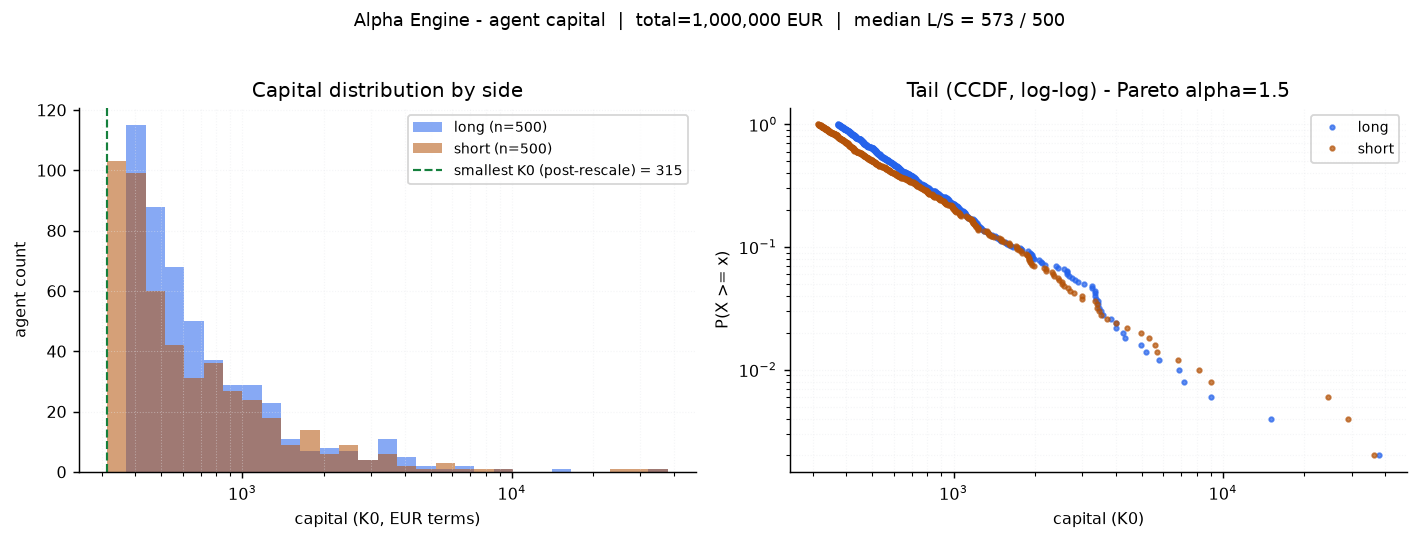
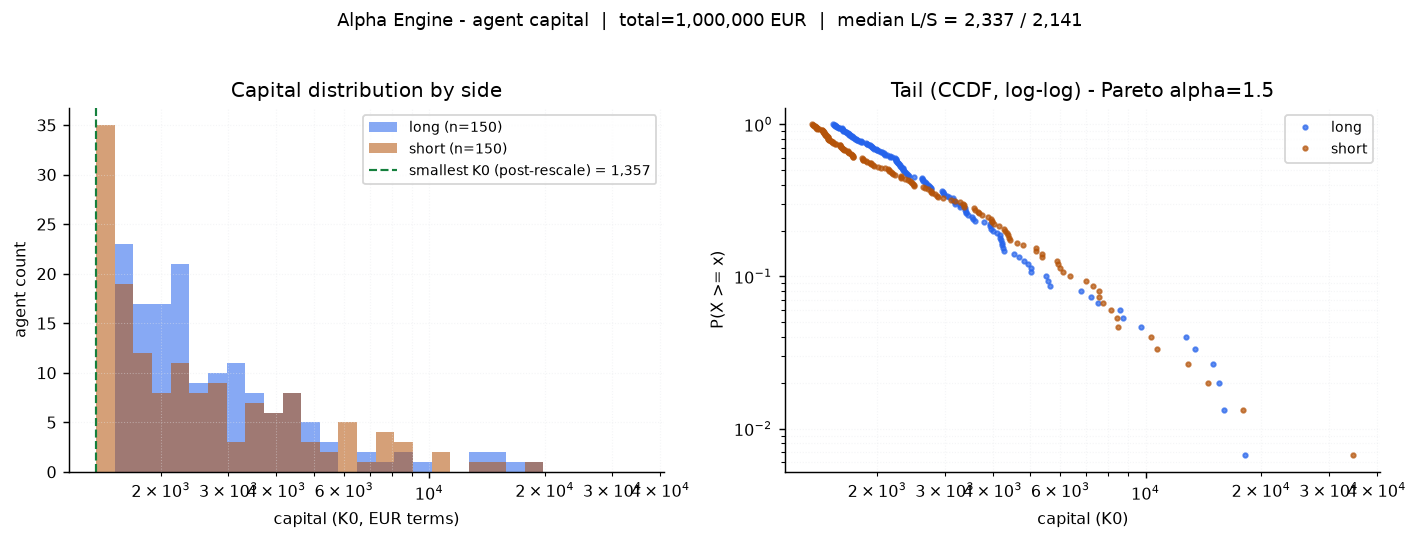
Benchmark with only CLOB; pressure clock also closes

diff --git a/scaling_law.py b/scaling_law.py
@@ -33,12 +33,24 @@ from analysis import Recorder
 from dc_analysis import measure, fit, load_csv
 
 # ---------------- edit these ----------------
-N, T, SEED = 500, 100_000, 1
-C, TP, SL = 0.004, 0.01, 0.02
-F = 0.5
-CLOSE_MODE = "quantity"     # NOT passed by earlier versions of this file: feeds built with
-SL_MODE    = "market"   # them silently used the config.py default ("quantity") -- a
-                        # DIFFERENT MODEL. Always state the mechanism explicitly.
+N     = 150     # agents PER SIDE   (total population = 2*N)
+T     = 100_000    # number of ticks
+SEED  = 42
+F     = 0.5     # initial home fraction
+C     = 0.004   # firing rate (activity); higher = livelier & slower
+
+TP    = 0.01     # take-profit band
+SL    = 0.02     # stop-loss band
+
+CLOSE_MODE = "home"      # "home" = each tribe delivers what it holds (v4 symmetric null)
+                         # "quantity" = both tribes re-trade a fixed BTC quantity (v3; stranding)
+SL_MODE    = "market"    # "market" | "limit" | "wait"   (close_mode="home" requires "market")
+
+X_ACCOUNTING       = True   # geometric-mean (X) sizing, identical formula both tribes
+LOG_THRESHOLDS     = True   # log-symmetric TP/SL bands (kills the percentage gauge drift)
+SYMMETRIC_SOLVENCY = True   # clamp SELLs by BTC held, mirroring the EUR clamp on BUYs
+ENTRY_MODE         = "rest" # how ENTRIES meet the market (v5 pure-CLOB switch)
+HOLD_FIRES_CLOSE   = True   # impatience: the pressure clock also runs while HOLDING -> close
 
 CSV_PATH = "price_feed.csv"
 REUSE_CSV = True        # True: skip the run if CSV_PATH already exists (analysis is instant)
@@ -56,8 +68,14 @@ SHOW = True
 
 def build_feed(path: str) -> None:
     """Run the config and write tick,p_int to CSV."""
-    cfg = Config(n=N, T=T, seed=SEED, f=F, c=C, tp=TP, sl=SL,
-                 close_mode=CLOSE_MODE, sl_mode=SL_MODE)
+    cfg = Config(n=N, T=T, seed=SEED, f=F, c=C,
+             tp=TP, sl=SL,
+             close_mode=CLOSE_MODE, sl_mode=SL_MODE,
+             x_accounting=X_ACCOUNTING,
+             log_thresholds=LOG_THRESHOLDS,
+             symmetric_solvency=SYMMETRIC_SOLVENCY,
+             entry_mode=ENTRY_MODE,
+             hold_fires_close=HOLD_FIRES_CLOSE)
     print(cfg.summary())
     sim = Simulation(cfg, recorder=Recorder(), run_checks=RUN_CHECKS).run()
     tick = sim.recorder.series("tick")
@@ -112,22 +130,14 @@ def main() -> None:
 
 
 def _plot(D, NDC, OS, E_N, C_N, R_N, E_os, C_os, R_os, ratio, sd, n_t) -> None:
-    # the engine line: every figure names its arm (the 4x silent-default lesson)
-    ENGINE = (f"close={CLOSE_MODE} entry={globals().get('ENTRY_MODE','ioc')} "
-              f"impatience={globals().get('HOLD_FIRES_CLOSE', False)}")
-
     import matplotlib
     if not SHOW:
         matplotlib.use("Agg")
-    # the engine line: every figure names its arm (the 4x silent-default lesson)
-    ENGINE = (f"close={CLOSE_MODE} entry={globals().get('ENTRY_MODE','ioc')} "
-              f"impatience={globals().get('HOLD_FIRES_CLOSE', False)}")
-
     import matplotlib.pyplot as plt
 
     fig, (a1, a2) = plt.subplots(1, 2, figsize=(12.5, 5.2))
     fig.suptitle(f"Intrinsic-time scaling laws  |  n={N}, T={T:,}, seed={SEED}, c={C}, "
-                 f"tp={TP} sl={SL}  |  {ENGINE}  |  tick sd(r)={sd:.3g}",
+                 f"tp={TP} sl={SL} close={CLOSE_MODE}  |  tick sd(r)={sd:.3g}",
                  fontsize=11, fontweight="bold")
     xs = np.array([D.min(), D.max()])
 

diff --git a/run_single.py b/run_single.py
@@ -16,11 +16,11 @@ from simulation import Simulation
 from analysis import Recorder, Analyser
 
 # ---------------- edit these ----------------
-N     = 500     # agents PER SIDE   (total population = 2*N)
+N     = 150     # agents PER SIDE   (total population = 2*N)
 T     = 100_000    # number of ticks
-SEED  = 1
+SEED  = 42
 F     = 0.5     # initial home fraction
-C     = 0.004 # 0.004   # firing rate (activity); higher = livelier & slower
+C     = 0.004   # firing rate (activity); higher = livelier & slower
 
 TP    = 0.01     # take-profit band
 SL    = 0.02     # stop-loss band
@@ -32,9 +32,11 @@ SL_MODE    = "market"    # "market" | "limit" | "wait"   (close_mode="home" requ
 X_ACCOUNTING       = True   # geometric-mean (X) sizing, identical formula both tribes
 LOG_THRESHOLDS     = True   # log-symmetric TP/SL bands (kills the percentage gauge drift)
 SYMMETRIC_SOLVENCY = True   # clamp SELLs by BTC held, mirroring the EUR clamp on BUYs
+ENTRY_MODE         = "rest" # how ENTRIES meet the market (v5 pure-CLOB switch)
+HOLD_FIRES_CLOSE   = True   # impatience: the pressure clock also runs while HOLDING -> close
 
 SNAPSHOT_EVERY = 500   # per-agent PnL snapshot cadence (0 = off; faster on long runs)
-RUN_CHECKS     = True   # per-tick conservation + solvency asserts (False is faster)
+RUN_CHECKS     = True  # per-tick conservation + solvency asserts (False is faster)
 SHOW           = True
 # --------------------------------------------
 
@@ -43,7 +45,9 @@ cfg = Config(n=N, T=T, seed=SEED, f=F, c=C,
              close_mode=CLOSE_MODE, sl_mode=SL_MODE,
              x_accounting=X_ACCOUNTING,
              log_thresholds=LOG_THRESHOLDS,
-             symmetric_solvency=SYMMETRIC_SOLVENCY)
+             symmetric_solvency=SYMMETRIC_SOLVENCY,
+             entry_mode=ENTRY_MODE,
+             hold_fires_close=HOLD_FIRES_CLOSE)
 print(cfg.summary())          # prints the RESOLVED switches -- check them against the block
 
 sim = Simulation(cfg, recorder=Recorder(), run_checks=RUN_CHECKS,

diff --git a/config.py b/config.py
@@ -46,8 +46,8 @@ class Config:
                                 # baseline split is NOT implemented in the CLOB open_btc; see agents.py)
     W: int = 15                 # VESTIGIAL (CLOB era): entries are IOC and TP limits never expire, so
                                 # nothing in the book ages out. Kept only for config-file compatibility.
-    tp: float = 0.1 #0.10            # take-profit: close position when its return >= +tp
-    sl: float = 0.1 #0.10            # stop-loss:   close position when its return <= -sl
+    tp: float = 0.1             # take-profit: close position when its return >= +tp
+    sl: float = 0.1             # stop-loss:   close position when its return <= -sl
     sl_grid: float = 0.0        # >0 = snap SL trigger levels to a LOG grid of this spacing.
                                 # 0 = off (each agent stops at its own entry*e^-sl, so stops are
                                 # SCATTERED and fire one at a time -> no cascade -> thin tails).
@@ -101,7 +101,7 @@ class Config:
                                     #          cancels-and-replaces it at the live price, so staleness
                                     #          is bounded by the agent's own period d/c and W stays
                                     #          vestigial. SL closes are market orders in both modes.
-    hold_fires_close: bool = False  # impatience: the pressure clock also runs while HOLDING, and a
+    hold_fires_close: bool = True   # impatience: the pressure clock also runs while HOLDING, and a
                                     # fire while in-position exits at market. One clock, two roles:
                                     # opens you when flat, closes you when stale (timescale = the
                                     # agent's own period d/c; no new parameter, scale-covariant).
